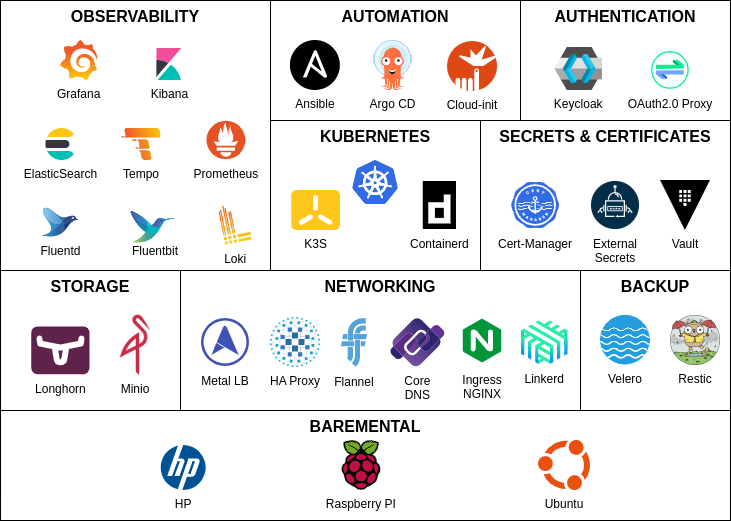
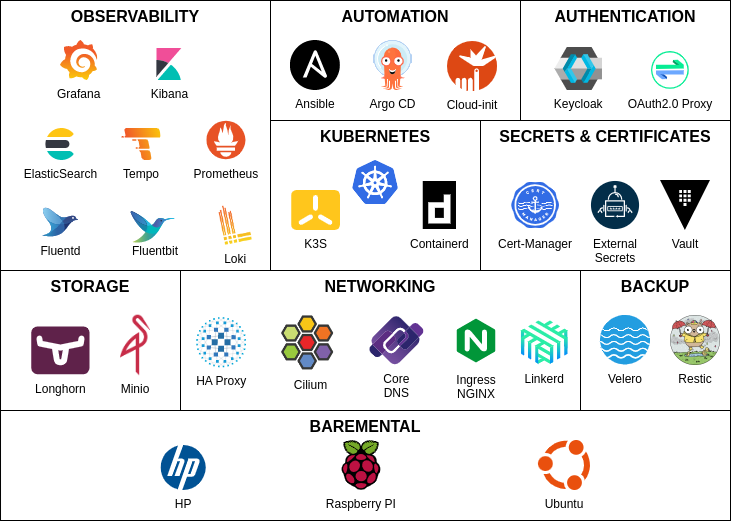
Update architecture docs to include cilium

Changed region(s): [[0.2709, 0.5835, 0.6922, 0.7678]]

diff --git a/docs/_docs/index.md b/docs/_docs/index.md
@@ -3,7 +3,7 @@ title: What is this project about?
 permalink: /docs/home/
 redirect_from: /docs/index.html
 description: The scope of this project is to create a kubernetes cluster at home using Raspberry Pis and low cost mini PCs, and to automate its deployment and configuration applying IaC (infrastructure as a code) and GitOps methodologies with tools like Ansible and ArgoCD. How to automatically deploy K3s baesed kubernetes cluster, Longhorn as distributed block storage for PODs' persistent volumes, Prometheus as monitoring solution, EFK+Loki stack as centralized log management solution, Velero and Restic as backup solution and Linkerd as service mesh architecture.
-last_modified_at: "02-03-2024"
+last_modified_at: "02-06-2024"
 ---
 
 
@@ -87,9 +87,9 @@ The following picture shows the set of opensource solutions used for building th
         <td>Container runtime integrated with K3S</td>
     </tr>
     <tr>
-        <td><img width="20" src="/assets/img/logos/flannel.svg" alt="flannel logo"></td>
-        <td><a href="https://github.com/flannel-io/flannel">Flannel</a></td>
-        <td>Kubernetes Networking (CNI) integrated with K3S</td>
+        <td><img width="60" src="/assets/img/logos/cilium.svg" alt="cilium logo"></td>
+        <td><a href="https://cilium.io">Cilium</a></td>
+        <td>Kubernetes Networking (CNI) and Load Balancer</td>
     </tr>
     <tr>
         <td><img width="32" src="/assets/img/logos/coredns.svg" alt="coredns logo"></td>
@@ -104,7 +104,7 @@ The following picture shows the set of opensource solutions used for building th
     <tr>
         <td><img width="32" src="/assets/img/logos/metallb.svg" alt="metallb logo"></td>
         <td><a href="https://metallb.universe.tf/">Metal LB</a></td>
-        <td>Load-balancer implementation for bare metal Kubernetes clusters</td>
+        <td>Load-balancer implementation for bare metal Kubernetes clusters (Cilium LB alternative)</td>
     </tr>
     <tr>
         <td><img width="32" src="/assets/img/logos/nginx.svg" alt="nginx logo"></td>
@@ -312,7 +312,7 @@ From software perspective, I have developed the following:
 
 3. **Packaged Kuberentes applications** (Helm, Kustomize, manifest files) to be deployed using ArgoCD
 
-   Source code can be found in Pi Cluster Git repository under [`/argocd`]({{site.git_address}}/tree/master/argocd) directory.
+   Source code can be found in Pi Cluster Git repository under [`/kubernetes`]({{site.git_address}}/tree/master/kubernetes) directory.
 
 4. This **documentation website** [picluster.ricsanfre.com](https://picluster.ricsanfre.com), hosted in Github pages.
 
@@ -335,11 +335,9 @@ The software used and the latest version tested of each component
 | Metrics | Kubernetes Metrics Server | v0.6.3 | version pre-integrated into K3S |
 | Kubernetes | etcd | v3.5.9-k3s1 | version pre-integrated into K3S |
 | Computing | containerd | v1.7.11-k3s2 | version pre-integrated into K3S |
-| Networking | Flannel | v0.24.0 | version pre-integrated into K3S |
+| Networking | Cilium | 1.15.5 | |
 | Networking | CoreDNS | v1.10.1 | version pre-integrated into K3S |
-| Networking | Metal LB | v0.14.5 | Helm chart version:  0.14.5 |
 | Service Mesh | Linkerd | v2.14.10 | Helm chart version: linkerd-control-plane-1.16.11 |
-| Service Proxy | Traefik | v2.10.6 | Helm chart version: 26.0.0  |
 | Service Proxy | Ingress NGINX | v1.10.1 | Helm chart version: 4.10.1 |
 | Storage | Longhorn | v1.6.1 | Helm chart version: 1.6.1 |
 | Storage | Minio | RELEASE.2024-04-18T19-09-19Z | Helm chart version: 5.2.0 |

diff --git a/README.md b/README.md
@@ -74,9 +74,9 @@ The following picture shows the set of opensource solutions used so far in the c
         <td>Container runtime integrated with K3S</td>
     </tr>
     <tr>
-        <td><img width="20" src="docs/assets/img/logos/flannel.svg"></td>
-        <td><a href="https://github.com/flannel-io/flannel">Flannel</a></td>
-        <td>Kubernetes Networking (CNI) integrated with K3S</td>
+        <td><img width="60" src="docs/assets/img/logos/cilium.svg" alt="cilium logo"></td>
+        <td><a href="https://cilium.io">Cilium</a></td>
+        <td>Kubernetes Networking (CNI) and Load Balancer</td>
     </tr>
     <tr>
         <td><img width="32" src="docs/assets/img/logos/coredns.svg"></td>
@@ -91,7 +91,7 @@ The following picture shows the set of opensource solutions used so far in the c
     <tr>
         <td><img width="32" src="docs/assets/img/logos/metallb.svg"></td>
         <td><a href="https://metallb.universe.tf/">Metal LB</a></td>
-        <td>Load-balancer implementation for bare metal Kubernetes clusters</td>
+        <td>Load-balancer implementation for bare metal Kubernetes clusters (Cilium LB alternative)</td>
     </tr>
     <tr>
         <td><img width="32" src="docs/assets/img/logos/nginx.svg"></td>
@@ -256,7 +256,7 @@ The content of this website and the source code to build it (Jekyll static based
 
 ## Usage 
 
-Check out the documentation [Quick Start guide](http://picluster.ricsanfre.com/docs/ansible/) to know how to use and tweak cloud-init files (`/cloud-init` folder), Ansible playbooks (`/ansible` folder) and packaged Kubernetes applications ( `/argocd` folder) contained in this repository, so you can use in for your own homelab.
+Check out the documentation [Quick Start guide](http://picluster.ricsanfre.com/docs/ansible/) to know how to use and tweak cloud-init files (`/cloud-init` folder), Ansible playbooks (`/ansible` folder) and packaged Kubernetes applications ( `/kubernetes` folder) contained in this repository, so you can use in for your own homelab.
 
 ## About the Project
 
